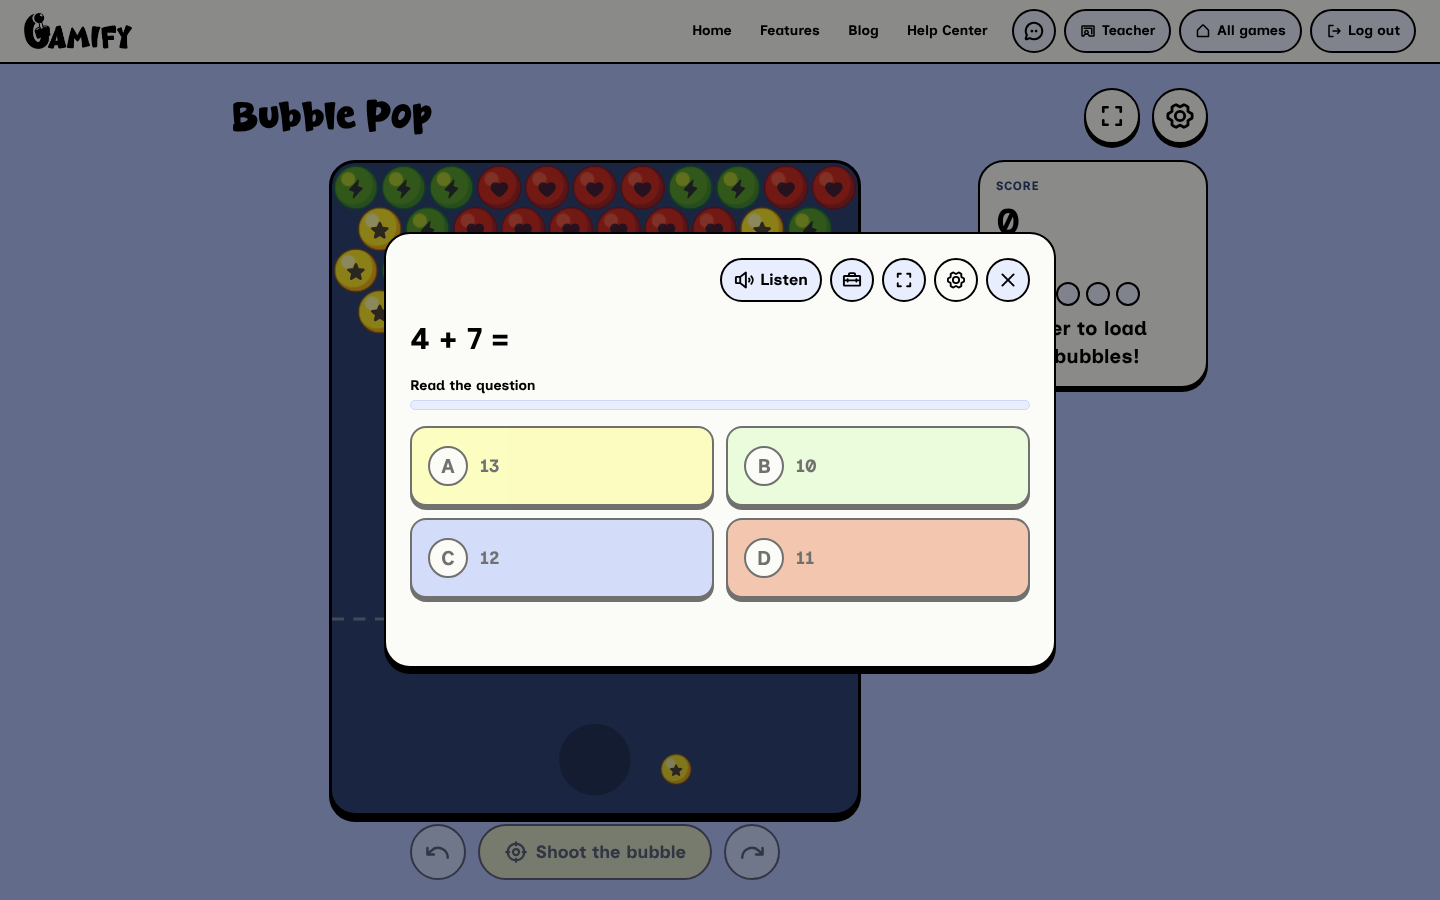
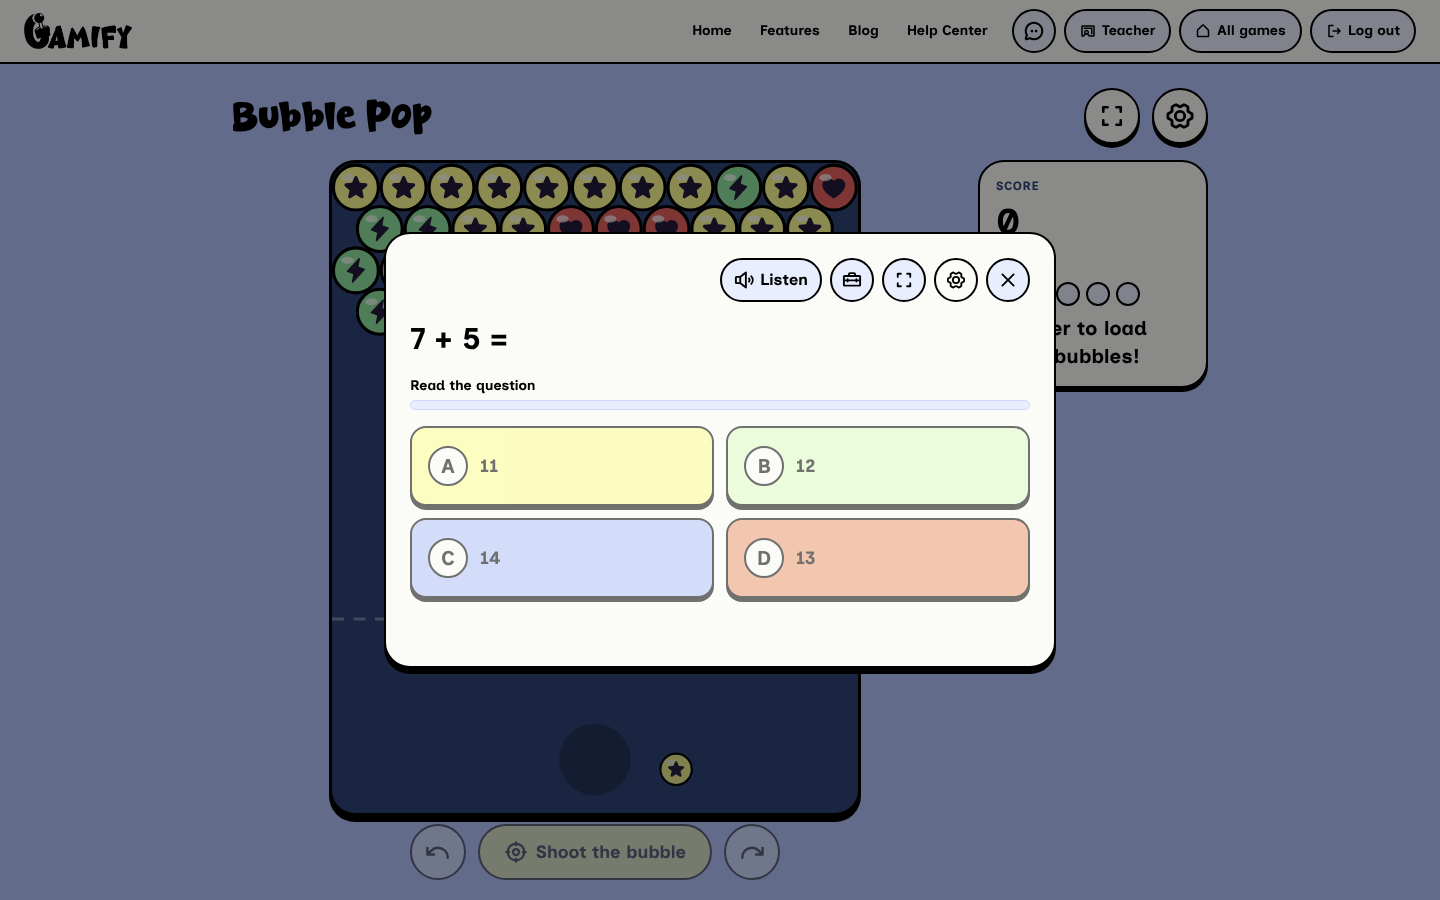
Puzzle pack art waits behind a switch until its license is confirmed (files kept out of the shipped site); Classic look unchanged meanwhile
Claude-Session: https://claude.ai/code/session_01APER8wtnDZSnzGLifX9o6w

Changed region(s): [[0.2188, 0.1867, 0.5938, 0.3733], [0.4375, 0.84, 0.5, 0.8711], [0.2812, 0.3733, 0.3438, 0.4044]]

diff --git a/src/games/match-three/MatchThree.tsx b/src/games/match-three/MatchThree.tsx
@@ -1,7 +1,8 @@
 import { useMemo, useRef, useState } from 'react';
 import { motion } from 'motion/react';
 import confetti from 'canvas-confetti';
-import { ArrowsLeftRight, Diamond, Question } from '@phosphor-icons/react';
+import { ArrowsLeftRight, Cake, Coffee, Cookie, Diamond, IceCream, Pizza, Popcorn, Question, type Icon } from '@phosphor-icons/react';
+import { PUZZLE_PACK_CLEARED } from '../../config';
 import { useMySets } from '../../data/hooks';
 import { LIBRARY } from '../../data/library';
 import { buzz, playEffect } from '../../engine/feedback';
@@ -33,7 +34,8 @@ import Title from '../../ui/Title';
 // alone). Library and class-made themes swap in artwork per tile.
 // Classic tiles are gems (teacher, 2026-10-31): each a different shape and
 // color, on a soft tile of its own color, so shape alone tells them apart.
-const TILE_COLORS = ['#d6e8ff', '#ffd9dc', '#d4f5dc', '#fff4c2', '#eadcff', '#ffe2c7'];
+const TILE_COLORS = PUZZLE_PACK_CLEARED ? ['#d6e8ff', '#ffd9dc', '#d4f5dc', '#fff4c2', '#eadcff', '#ffe2c7'] : ['#f2c27b', '#f6a5c0', '#9fd8f0', '#f7b267', '#fbe38a', '#c9a27e'];
+const TILE_ICONS: Icon[] = [Cookie, Cake, IceCream, Pizza, Popcorn, Coffee];
 const CLASSIC_GEM = (k: number) => `/classic/match-three/gem-${k}.webp`;
 type Phase = 'welcome' | 'theme' | 'setup' | 'play' | 'end';
 
@@ -173,7 +175,7 @@ export default function MatchThree() {
       {phase === 'welcome' && (
         <GameWelcome game={matchThreeManifest} cover={pieceImage(theme, 'cover')} onStart={() => setPhase(themes.length > 1 ? 'theme' : 'setup')} steps={[
           { icon: <ArrowsLeftRight weight="bold" size={22} />, text: t('bm.how1') },
-          { icon: <Diamond weight="fill" size={22} />, text: t('bm.how2') },
+          { icon: PUZZLE_PACK_CLEARED ? <Diamond weight="fill" size={22} /> : <Cookie weight="fill" size={22} />, text: t('bm.how2') },
           { icon: <Question weight="bold" size={22} />, text: t('bm.how3') },
         ]} />
       )}
@@ -205,7 +207,7 @@ export default function MatchThree() {
               {grid.map((row, r) => <div key={r} role="row" className="contents">{row.map((tileItem, c) => {
                 const key = `${r},${c}`;
                 const isSel = selected?.row === r && selected?.col === c;
-                const kindName = t(`bm.kind.${tileItem.kind}` as StringKey);
+                const kindName = t(`bm.${PUZZLE_PACK_CLEARED ? "gem" : "kind"}.${tileItem.kind}` as StringKey);
                 return (
                   <motion.button
                     key={tileItem.id}
@@ -224,7 +226,8 @@ export default function MatchThree() {
                     className={`aspect-square rounded-input border-[2px] flex items-center justify-center ${isSel ? 'border-border ring-4 ring-accent' : 'border-border-soft'}`}
                     style={pieceFill(theme, `tile-${tileItem.kind}`, TILE_COLORS[tileItem.kind])}
                   >
-                    {!pieceImage(theme, `tile-${tileItem.kind}`) && <img src={CLASSIC_GEM(tileItem.kind)} alt="" aria-hidden="true" draggable="false" className="w-4/5 h-4/5 object-contain pointer-events-none drop-shadow-[0_2px_0_rgba(0,0,0,0.15)]" />}
+                    {!pieceImage(theme, `tile-${tileItem.kind}`) && !PUZZLE_PACK_CLEARED && (() => { const Icon = TILE_ICONS[tileItem.kind]; return <Icon weight="fill" className="w-3/5 h-3/5" color="#241c3d" aria-hidden="true" />; })()}
+                    {!pieceImage(theme, `tile-${tileItem.kind}`) && PUZZLE_PACK_CLEARED && <img src={CLASSIC_GEM(tileItem.kind)} alt="" aria-hidden="true" draggable="false" className="w-4/5 h-4/5 object-contain pointer-events-none drop-shadow-[0_2px_0_rgba(0,0,0,0.15)]" />}
                   </motion.button>
                 );
               })}</div>)}

diff --git a/src/games/bubble-pop/BubblePop.tsx b/src/games/bubble-pop/BubblePop.tsx
@@ -13,6 +13,7 @@ import { t } from '../../i18n';
 import { GameTopRow, SettingsPanel } from '../../settings/SettingsPanel';
 import { useSettings } from '../../settings/SettingsContext';
 import { useGamePool } from '../../student/session';
+import { PUZZLE_PACK_CLEARED } from '../../config';
 import { pieceFill, pieceImage } from '../../theme/library';
 import { ThemedPage, useGameTheme } from '../../theme/useGameTheme';
 import { Slider, Toggle } from '../../ui/fields';
@@ -211,14 +212,14 @@ export default function BubblePop() {
   const patterns = BUBBLE_COLORS.map((_, i) => pieceImage(theme, `bubble-${i}`));
   // Classic bubbles are shiny balls (teacher, 2026-10-31) with their shape
   // icon kept on top, so color is never the only clue.
-  const fill = (k: number) => `url(#bp-art-${k})`;
+  const fill = (k: number) => (patterns[k] || PUZZLE_PACK_CLEARED ? `url(#bp-art-${k})` : BUBBLE_COLORS[k]);
   const bubble = (k: number, x: number, y: number, key?: string, cls = '', style?: React.CSSProperties) => {
     const S = SHAPES[k];
     return (
       <g key={key} className={cls} style={style}>
-        <circle cx={x} cy={y} r={R * 0.94} fill={fill(k)} stroke={patterns[k] ? '#000' : 'none'} strokeWidth={0.13} />
-        {!patterns[k] && <S x={x - 0.42} y={y - 0.36} size={0.84} weight="fill" color="#241c3d" opacity={0.8} />}
-        {patterns[k] && <ellipse cx={x - 0.35} cy={y - 0.42} rx={0.26} ry={0.15} fill="#fff" opacity={0.7} />}
+        <circle cx={x} cy={y} r={R * 0.94} fill={fill(k)} stroke={PUZZLE_PACK_CLEARED && !patterns[k] ? 'none' : '#000'} strokeWidth={0.13} />
+        {!patterns[k] && (PUZZLE_PACK_CLEARED ? <S x={x - 0.42} y={y - 0.36} size={0.84} weight="fill" color="#241c3d" opacity={0.8} /> : <S x={x - 0.55} y={y - 0.55} size={1.1} weight="fill" color="#241c3d" />)}
+        {(patterns[k] || !PUZZLE_PACK_CLEARED) && <ellipse cx={x - 0.35} cy={y - 0.42} rx={0.26} ry={0.15} fill="#fff" opacity={0.7} />}
       </g>
     );
   };
@@ -268,7 +269,7 @@ export default function BubblePop() {
                 onPointerUp={(e) => { if (!pressed.current) return; pressed.current = false; const a = toAngle(e); setAngle(a); shoot(a); }}
                 onPointerLeave={() => { pressed.current = false; }}>
                 <defs>
-                  {patterns.map((src, i) => (
+                  {patterns.map((src, i) => (src || PUZZLE_PACK_CLEARED) && (
                     <pattern key={i} id={`bp-art-${i}`} patternContentUnits="objectBoundingBox" width="1" height="1"><image href={src ?? `/classic/bubble-pop/ball-${i}.webp`} width="1" height="1" preserveAspectRatio={src ? 'xMidYMid slice' : 'xMidYMid meet'} /></pattern>
                   ))}
                 </defs>

diff --git a/src/i18n/en.ts b/src/i18n/en.ts
@@ -303,7 +303,9 @@ export const en = {
   'bm.shuffle': 'No moves left, shuffling the board!',
   'bm.answerToGo': 'Great round! Answer to keep playing.',
   'bm.done': 'You scored {score} points!',
-  'bm.kind.0': 'Blue diamond', 'bm.kind.1': 'Red heart', 'bm.kind.2': 'Green gem', 'bm.kind.3': 'Yellow star', 'bm.kind.4': 'Purple drop', 'bm.kind.5': 'Orange moon',
+  'bm.kind.0': 'Cookie', 'bm.kind.1': 'Cake', 'bm.kind.2': 'Ice cream', 'bm.kind.3': 'Pizza', 'bm.kind.4': 'Popcorn', 'bm.kind.5': 'Cocoa',
+  // Gem names for when the Puzzle Games Graphics Pack is cleared:
+  'bm.gem.0': 'Blue diamond', 'bm.gem.1': 'Red heart', 'bm.gem.2': 'Green gem', 'bm.gem.3': 'Yellow star', 'bm.gem.4': 'Purple drop', 'bm.gem.5': 'Orange moon',
 
   'fr.rightsHint': 'Right answers',
   'fr.title': 'Four in a Row',

diff --git a/src/public/howToPlay.ts b/src/public/howToPlay.ts
@@ -91,7 +91,7 @@ export const HOW_TO_PLAY: HowToPlay[] = [
       'Play the rounds the teacher sets.',
     ],
     pieces: [
-      { name: 'Board', what: 'A grid of gems to swap. Each gem has its own shape and color.' },
+      { name: 'Board', what: 'A grid of pieces to swap. Each piece has its own shape and color.' },
       { name: 'Moves and rounds', what: 'Each round has a number of moves; the panel shows the score and round.' },
       { name: 'Power-ups', what: 'Pocket Watch (more moves), Prize Bag (bonus points), Double Star (next match doubles).' },
     ],

diff --git a/e2e/match-three.spec.ts b/e2e/match-three.spec.ts
@@ -2,7 +2,7 @@ import { test, expect, type Page } from '@playwright/test';
 import { finishSetup, openSetup, noPowerUps } from './setup';
 
 
-const KINDS = ['Blue diamond', 'Red heart', 'Green gem', 'Yellow star', 'Purple drop', 'Orange moon'];
+const KINDS = ['Cookie', 'Cake', 'Ice cream', 'Pizza', 'Popcorn', 'Cocoa'];
 
 async function readGrid(page: Page): Promise<number[][]> {
   const labels = await page.getByRole('gridcell').evaluateAll((els) => els.map((e) => e.getAttribute('aria-label') ?? ''));

diff --git a/src/config.ts b/src/config.ts
@@ -93,3 +93,8 @@ export const CHALLENGE_OPEN = false;
 export function canPlayGame(tier: Tier, gameId: string): boolean {
   return TIERS[tier].allGames || FREE_GAMES.includes(gameId);
 }
+
+// The Puzzle Games Graphics Pack (Match Three gems, Bubble Pop balls) waits
+// on its license (teacher to confirm, 2026-10-31). When cleared: set true and
+// copy assets/puzzle-pack/classic/* into public/classic/.
+export const PUZZLE_PACK_CLEARED = false;

diff --git a/docs/asset-ledger.md b/docs/asset-ledger.md
@@ -25,7 +25,7 @@ ships without a line here.
 | Sound effects | Every game (right, miss, tap, win, whoosh; five theme sound packs) | Generated in code with the Web Audio API (`src/engine/feedback.ts`) | Original, owned; no files | 2026-10-25 |
 | Question Tracker Classic art (night sky background, six stars) | Question Tracker Classic theme; theme guide example | Made by the teacher in Canva from the blank template (`public/classic/star-quiz/`) | Teacher-supplied; confirm any Canva elements used are cleared for commercial use in a product | 2026-10-31 |
 | Kenney Fish Pack 2.0 (fish, seaweed, rocks; outline versions) | Cast and Catch Classic fish and lake floor (`public/classic/cast-catch/`) | kenney.nl, supplied by the teacher | CC0 1.0 (public domain, commercial use OK, credit optional; license copied beside the files) | 2026-10-31 |
-| Puzzle Games Graphics Pack by ci (gems, balls, coins, animals, pipes, blocks) | Match Three Classic gems, Bubble Pop Classic balls; library copy in `assets/puzzle-pack/` | ci.itch.io/puzzle-games-graphics-pack, supplied by the teacher | **License not yet confirmed: hold from main until the teacher confirms commercial use** | 2026-10-31 |
+| Puzzle Games Graphics Pack by ci (gems, balls, coins, animals, pipes, blocks) | Match Three gems, Bubble Pop balls (ready behind `PUZZLE_PACK_CLEARED` in `src/config.ts`; files kept in `assets/puzzle-pack/`, not shipped) | ci.itch.io/puzzle-games-graphics-pack, supplied by the teacher | **License not yet confirmed: hold from main until the teacher confirms commercial use** | 2026-10-31 |
 
 ## Device fonts for theme titles (2026-10-25)
 

diff --git a/assets/puzzle-pack/README.md b/assets/puzzle-pack/README.md
@@ -7,5 +7,7 @@ any game or theme can draw from it.
 
 License: not yet confirmed (the itch.io page could not be opened from the
 build session). Nothing here ships to students until the license is recorded
-in docs/asset-ledger.md. In use on the work branch: Match Three gems
-(public/classic/match-three) and Bubble Pop balls (public/classic/bubble-pop).
+in docs/asset-ledger.md. Ready to switch on: Match Three gems and Bubble Pop
+balls (classic/ here). To ship: set PUZZLE_PACK_CLEARED = true in
+src/config.ts and copy classic/match-three and classic/bubble-pop into
+public/classic/.
